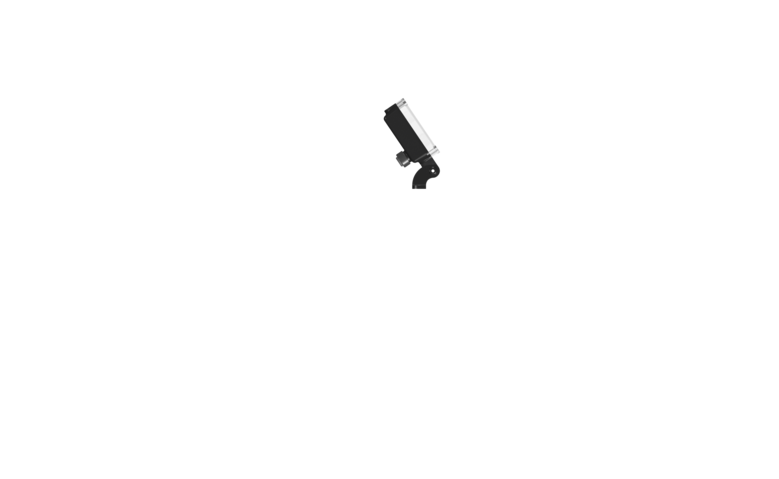
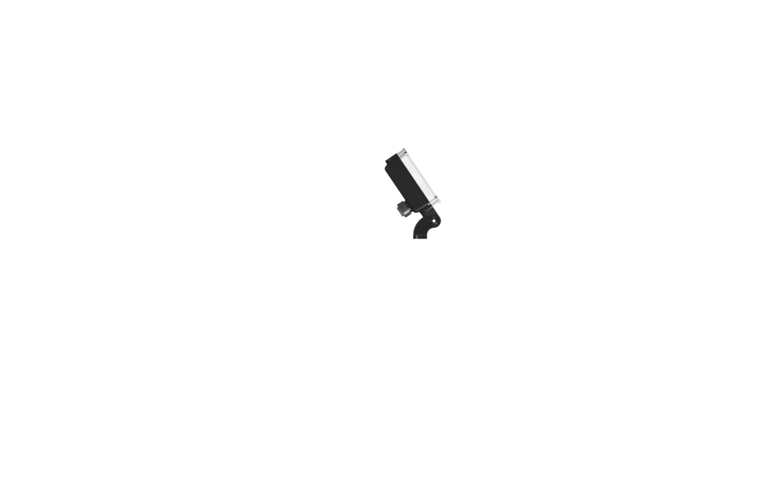
fix

Changed region(s): [[0.4929, 0.2046, 0.5854, 0.4969]]

diff --git a/js/index.js b/js/index.js
@@ -96,7 +96,7 @@ let Seacraft = {
                 if (index == 0) {
                     $('#models').append('<span class="model__title model__active" data-id="' + index + '">' + element.nameEN + '</span>');
                     $('#modelIMG').remove();
-                    $('.scooter-images').append($('<img>', { id: 'modelIMG', src: models[$('.models').find('.model__active').attr('data-id')].img }));
+                    $('#model').append($('<img>', { id: 'modelIMG', src: models[$('.models').find('.model__active').attr('data-id')].img }));
                 } else {
                     $('#models').append('<span class="model__title" data-id="' + index + '">' + element.nameEN + '</span>');
                 }
@@ -106,8 +106,8 @@ let Seacraft = {
                 $('.models').find('.model__active').removeClass('model__active');
                 $(this).addClass('model__active');
                 Seacraft.accessories.load($('.models').find('.model__active').attr('data-id'));
-                $('.scooter-images').empty();
-                $('.scooter-images').append($('<img>', { id: 'modelIMG', src: models[$('.models').find('.model__active').attr('data-id')].img }));
+                $('#model').empty();
+                $('#model').append($('<img>', { id: 'modelIMG', src: models[$('.models').find('.model__active').attr('data-id')].img }));
             });
             $('.button').click(function () {
                 $('.scooter-points').find('.active-btn').removeClass('active-btn');
@@ -135,7 +135,7 @@ let Seacraft = {
                                 brackets[0].push(el);
                             }
                             $('<div />', {
-                                "class": 'accessories__items',
+                                "class": 'accessories__items ' + (el.bracket == true ? 'bracket' : 'acc'),
                                 'data-id': el.id,
                                 "html": acs,
                             }).appendTo('#accessories1');
@@ -145,7 +145,7 @@ let Seacraft = {
                                 brackets[1].push(el);
                             }
                             $('<div />', {
-                                "class": 'accessories__items',
+                                "class": 'accessories__items ' + (el.bracket == true ? 'bracket' : 'acc'),
                                 'data-id': el.id,
                                 "html": acs,
                             }).appendTo('#accessories2');
@@ -155,7 +155,7 @@ let Seacraft = {
                                 brackets[2].push(el);
                             }
                             $('<div />', {
-                                "class": 'accessories__items',
+                                "class": 'accessories__items ' + (el.bracket == true ? 'bracket' : 'acc'),
                                 'data-id': el.id,
                                 "html": acs,
                             }).appendTo('#accessories3');
@@ -166,65 +166,159 @@ let Seacraft = {
             $('.accessories__items').click(function () {
                 if ($(this).hasClass('active-access')) {
                     $(this).removeClass('active-access');
-                    Seacraft.accessories.choise($(this), $(this).parent().attr('data-access'));
+                    Seacraft.accessories.choise1($(this).parent().attr('data-access'), $(this).attr('data-id'), false);
                 } else {
-                    $('#' + $(this).parent().attr('id')).find('.active-access').removeClass('active-access');
                     $(this).addClass('active-access');
-                    Seacraft.accessories.choise($(this), $(this).parent().attr('data-access'), $(this).attr('data-id'));
+                    Seacraft.accessories.choise1($(this).parent().attr('data-access'), $(this).attr('data-id'), true, $(this));
                 }
             });
         },
-        choise: function (elem, point, id = null, type = null) {
-            $('.accessory' + point + 'IMG').remove();
+        choise1: function (point, id, type = true, elems = null, tool = true) {
+            //type: true-add, false-remove, tool is for access with required brackets: when true - get tooltip/false-remove all access at this point
             let myAccessry = acces.find(obj => {
                 return obj.id == id
             });
-            if (id != null) {
-                if (myAccessry.bracket == true || myAccessry.withBracket == false || brackets[point - 1].length < 2) {
-                    $('.scooter-images').append($('<img>', { class: 'accessory' + point + 'IMG', 'data-id': id, src: '../../assets/images/accessory/models/' + $('.models').find('.model__active').attr('data-id') + '/point' + point + '/' + myAccessry.img + '.png' }));
+            if (type == false) {
+                if (myAccessry.bracket == true) {
+                    $('.bracket' + point + 'IMG' + '[data-id=' + id + ']').remove();
+                    let elem = $('#accesory').find('.accessory' + point + 'IMG');
+                    $('.accessory' + point + 'IMG').remove();
+                    for (let i = 0; i < elem.length; i++) {
+                        Seacraft.accessories.choise1(point, $(elem[i]).attr('data-id'), true, elems, false);
+                    }
                 } else {
-                    let htmlTool = '<div class="title-tool">Select a bracket</div>';
-                    brackets[point - 1].forEach((el) => {
-                        htmlTool += '<div class="accessories__items itemsTool" data-id="' + el.id + '"><div class="items-image"><img src="./assets/images/accessory/icons/' + el.img + '.png" alt=""></div><div div class="items-name"><span>' + el.nameEN + '</span></div></div>';
-                    });
-                    htmlTool += '';
-                    tippy(elem[0], {
-                        arrow: false,
-                        content: htmlTool,
-                        trigger: 'click',
-                        // hideOnClick: true,
-                        showOnCreate: true,
-                        interactive: true,
-                        maxWidth: 'none',
-                        allowHTML: true,
-                        appendTo: () => $('.mainblock__accessories')[0],
-                        placement: 'top',
-                        zIndex: 9999,
-                        onHidden(instance) {
-                            $(".mainblock__accessories").find(`[data-tippy-root]`).remove();
-                            elem[0]._tippy.destroy();
-                        },
-                        onClickOutside() {
-                            elem.removeClass('active-access');
-                            elem[0]._tippy.destroy();
-                            Seacraft.accessories.choise(elem, point);
-                        },
-                    });
-                    $('.itemsTool').click(function () {
-                        elem[0]._tippy.destroy();
-                        $(".mainblock__accessories").find(`[data-tippy-root]`).remove();
-                        $('.accessory' + point + 'IMG').remove();
-                        Seacraft.accessories.withBracket(point, $(this).attr('data-id'));
-                        Seacraft.accessories.withBracket(point, id);
-                    });
+                    $('.accessory' + point + 'IMG' + '[data-id=' + id + ']').remove();
                 }
+            } else {
+                if (myAccessry.bracket == true) {
+                    $('#' + $(elems).parent().attr('id')).find('.bracket').removeClass('active-access');
+                    $('.bracket' + point + 'IMG').remove();
+                    $(elems).addClass('active-access');
+                    $('#bracket').append($('<img>', { class: 'bracket' + point + 'IMG', 'data-id': id, src: '../../assets/images/accessory/models/' + $('.models').find('.model__active').attr('data-id') + '/bracket/point' + point + '/' + myAccessry.img + '.png' }));
+                    let elem = $('#accesory').find('.accessory' + point + 'IMG');
+                    $('.accessory' + point + 'IMG').remove();
+                    for (let i = 0; i < elem.length; i++) {
+                        Seacraft.accessories.choise1(point, $(elem[i]).attr('data-id'), true, elems);
+                    }
+                } else {
+                    if (myAccessry.withBracket == false) {
+                        $('.bracket' + point + 'IMG').remove();
+                    } else if (myAccessry.withBracket == true) {
+                        if ($('.bracket' + point + 'IMG').length < 1) {
+                            if (tool == false) {
+                                $('#accessories' + point).find('.acc[data-id=' + myAccessry.id + ']').removeClass('active-access');
+                                $('.accessory' + point + 'IMG' + '[data-id=' + myAccessry.id + ']').remove();
+                            } else {
+                                let htmlTool = '<div class="title-tool">Select a bracket first for this accessory</div>';
+                                tippy(elems[0], {
+                                    arrow: false,
+                                    content: htmlTool,
+                                    trigger: 'click',
+                                    hideOnClick: true,
+                                    showOnCreate: true,
+                                    interactive: true,
+                                    maxWidth: 'none',
+                                    allowHTML: true,
+                                    appendTo: () => $('.mainblock__accessories')[0],
+                                    placement: 'top',
+                                    zIndex: 9999,
+                                    onHidden(instance) {
+                                        $(".mainblock__accessories").find(`[data-tippy-root]`).remove();
+                                        elems[0]._tippy.destroy();
+                                    },
+                                    onClickOutside() {
+                                        $(elems[0]).removeClass('active-access');
+                                        elems[0]._tippy.destroy();
+                                    },
+                                });
+                            }
+                            return;
+                        }
+                    }
+                    let elem = $('#accesory').find('.accessory' + point + 'IMG');
+                    let path = '';
+                    if ($('.bracket' + point + 'IMG').length > 0) {
+                        path = '/bracket/';
+                    } else {
+                        path = '/';
+                    }
+                    let counter = 0;
+                    if (elem.length > 0) {
+                        for (let i = 0; i < elem.length; i++) {
+                            let myAccess = acces.find(obj => {
+                                return obj.id == elem[i].dataset.id
+                            });
+                            if (myAccess.mix.includes(Number(id)) || myAccess.id == id) {
+                                counter++;
+                            }
+                        }
+                        if (counter == elem.length) {
+                            $('#accesory').append($('<img>', { class: 'accessory' + point + 'IMG', 'data-id': id, src: '../../assets/images/accessory/models/' + $('.models').find('.model__active').attr('data-id') + path + 'point' + point + '/' + myAccessry.img + '.png' }));
+                        } else {
+                            $('#' + $(elems).parent().attr('id')).find('.acc').removeClass('active-access');
+                            $(elems).addClass('active-access');
+                            $('#accesory .accessory' + point + 'IMG').remove();
+                            $('#accesory').append($('<img>', { class: 'accessory' + point + 'IMG', 'data-id': id, src: '../../assets/images/accessory/models/' + $('.models').find('.model__active').attr('data-id') + path + 'point' + point + '/' + myAccessry.img + '.png' }));
+                        }
+                    } else {
+                        $('#accesory').append($('<img>', { class: 'accessory' + point + 'IMG', 'data-id': id, src: '../../assets/images/accessory/models/' + $('.models').find('.model__active').attr('data-id') + path + 'point' + point + '/' + myAccessry.img + '.png' }));
+                    }
+                }
+            } if (myAccessry.with.length > 0) {
+                myAccessry.with.forEach((el) => {
+                    let secondAccess = acces.find(obj => {
+                        return obj.id == el
+                    }); console.log(secondAccess);
+                    if (secondAccess.point1 == '1') {
+                        Seacraft.accessories.choiseWithSecond(1, el, type);
+                    } else if (secondAccess.point2 == '1') {
+                        Seacraft.accessories.choiseWithSecond(2, el, type);
+                    } else {
+                        Seacraft.accessories.choiseWithSecond(3, el, type);
+                    }
+                });
             }
         },
-        withBracket: function (point, id) {
+        choiseWithSecond: function (point, id, type = true, elems = null, tool = true) {
             let myAccessry = acces.find(obj => {
                 return obj.id == id
             });
-            $('.scooter-images').append($('<img>', { class: 'accessory' + point + 'IMG', 'data-id': id, src: '../../assets/images/accessory/models/' + $('.models').find('.model__active').attr('data-id') + '/point' + point + '/' + myAccessry.img + '.png' }));
+            if (type == true) {
+                $('#accessories' + point).find('.acc[data-id=' + id + ']').addClass('active-access');
+                let elem = $('#accesory').find('.accessory' + point + 'IMG');
+                let path = '';
+                if ($('.bracket' + point + 'IMG').length > 0) {
+                    path = '/bracket/';
+                } else {
+                    path = '/';
+                }
+                let counter = 0;
+                if (elem.length > 0) {
+                    for (let i = 0; i < elem.length; i++) {
+                        let myAccess = acces.find(obj => {
+                            return obj.id == elem[i].dataset.id
+                        });
+                        if (myAccess.mix.includes(Number(id)) || myAccess.id == id) {
+                            counter++;
+                        } else {
+                            $('#accessories' + point).find('.acc[data-id=' + elem[i].dataset.id + ']').removeClass('active-access');
+                        }
+                    }
+                    if (counter == elem.length) {
+                        $('#accesory').append($('<img>', { class: 'accessory' + point + 'IMG', 'data-id': id, src: '../../assets/images/accessory/models/' + $('.models').find('.model__active').attr('data-id') + path + 'point' + point + '/' + myAccessry.img + '.png' }));
+                    } else {
+                        $('#' + $(elems).parent().attr('id')).find('.acc').removeClass('active-access');
+                        $(elems).addClass('active-access');
+                        $('#accesory .accessory' + point + 'IMG').remove();
+                        $('#accesory').append($('<img>', { class: 'accessory' + point + 'IMG', 'data-id': id, src: '../../assets/images/accessory/models/' + $('.models').find('.model__active').attr('data-id') + path + 'point' + point + '/' + myAccessry.img + '.png' }));
+                    }
+                } else {
+                    $('#accesory').append($('<img>', { class: 'accessory' + point + 'IMG', 'data-id': id, src: '../../assets/images/accessory/models/' + $('.models').find('.model__active').attr('data-id') + path + 'point' + point + '/' + myAccessry.img + '.png' }));
+                }
+            } else {
+                $('#accessories' + point).find('.acc[data-id=' + id + ']').removeClass('active-access');
+                $('.accessory' + point + 'IMG' + '[data-id=' + id + ']').remove();
+            }
         },
     },
     howtouse: function () {

diff --git a/index.html b/index.html
@@ -64,6 +64,9 @@
         </div>
         <div class="mainBlock__scooter">
             <div class="scooter-images">
+                <div id="model" data-model></div>
+                <div id="bracket" data-bracket></div>
+                <div id="accesory" data-accesory></div>
             </div>
             <div class="scooter-points">
                 <div class="title">Choose mounting point:</div>
